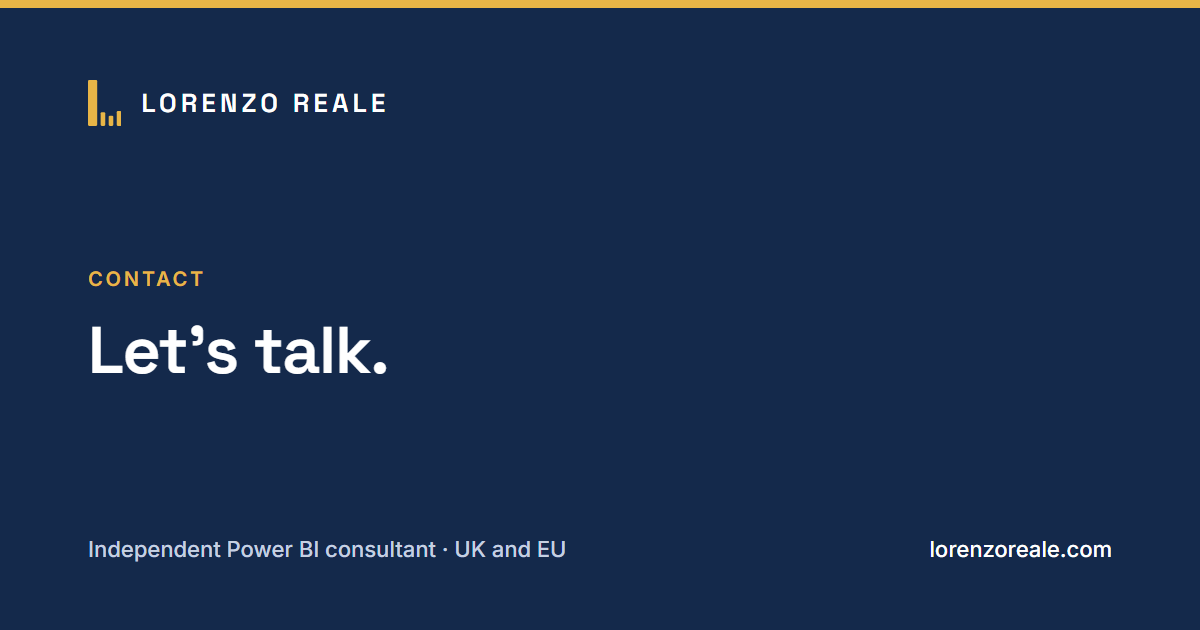
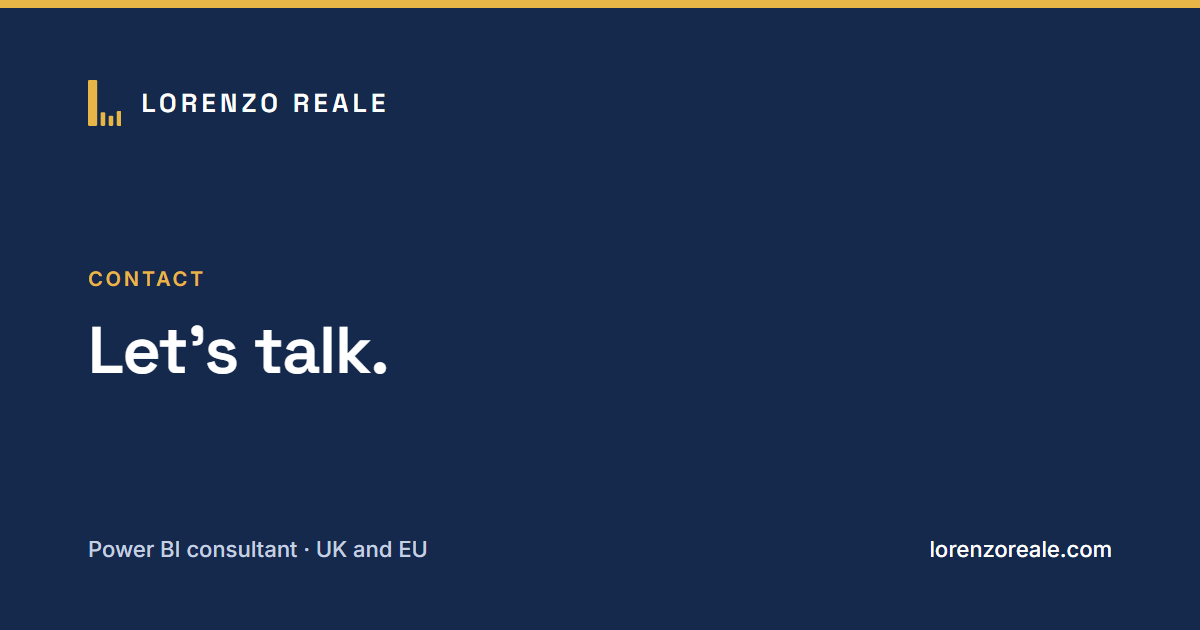
Demote independent from the letterhead and metadata
The word appeared on all nine pages plus the meta description, the JSON-LD jobTitle and the photo caption. Repeated that often it read as a tic rather than as information, so it now survives only where it does real work: the About paragraph, the homepage JSON-LD description and llms.txt.

The social cards carry the same role line in their footer, so they are rebuilt and their ?v= queries bumped: home to 4, the other four to 3.

Changed region(s): [[0.0617, 0.8444, 0.4625, 0.9048]]

diff --git a/index.html b/index.html
@@ -5,7 +5,7 @@
   <meta name="viewport" content="width=device-width, initial-scale=1.0" />
 
   <title>Lorenzo Reale - Power BI Developer and Consultant | UK and EU</title>
-  <meta name="description" content="Independent Power BI developer and consultant for operational and enterprise data. Dashboards, semantic models, DAX and SQL, across the UK and EU." />
+  <meta name="description" content="Power BI developer and consultant for operational and enterprise data. Dashboards, semantic models, DAX and SQL, across the UK and EU." />
   <link rel="canonical" href="https://lorenzoreale.com/" />
   <meta name="theme-color" content="#14294B" />
 
@@ -16,14 +16,14 @@
   <meta property="og:url" content="https://lorenzoreale.com/" />
   <meta property="og:title" content="Lorenzo Reale - Power BI Developer and Consultant | UK and EU" />
   <meta property="og:description" content="Power BI consultant for operational and enterprise data that has to be right. Dashboards, semantic models, DAX and the SQL layer beneath them, across the UK and EU." />
-  <meta property="og:image" content="https://lorenzoreale.com/og/home.png?v=3" />
+  <meta property="og:image" content="https://lorenzoreale.com/og/home.png?v=4" />
   <meta property="og:image:width" content="1200" />
   <meta property="og:image:height" content="630" />
   <meta property="og:image:alt" content="Lorenzo Reale - portrait beside the headline: Power BI consultant for operational and enterprise data that has to be right" />
 
   <!-- Twitter -->
   <meta name="twitter:card" content="summary_large_image" />
-  <meta name="twitter:image" content="https://lorenzoreale.com/og/home.png?v=3" />
+  <meta name="twitter:image" content="https://lorenzoreale.com/og/home.png?v=4" />
   <meta name="twitter:title" content="Lorenzo Reale - Power BI Developer and Consultant | UK and EU" />
   <meta name="twitter:description" content="Power BI consultant for operational and enterprise data that has to be right. Dashboards, semantic models, DAX and the SQL layer beneath them, across the UK and EU." />
 
@@ -65,7 +65,7 @@
           "url": "https://lorenzoreale.com/media/profile.png",
           "width": 1000,
           "height": 999,
-          "caption": "Lorenzo Reale, independent Power BI consultant"
+          "caption": "Lorenzo Reale, Power BI consultant"
         }
       },
       {
@@ -75,7 +75,7 @@
         "url": "https://lorenzoreale.com/",
         "image": "https://lorenzoreale.com/media/profile.png",
         "email": "lorenzo@lorenzoreale.com",
-        "jobTitle": "Independent Power BI Consultant",
+        "jobTitle": "Power BI Consultant",
         "description": "Independent Power BI developer and consultant for operational and enterprise data: dashboards and reports, semantic models, DAX and the SQL layer beneath them. Works with clients across the UK and EU, mostly remotely, with occasional on-site visits.",
         "nationality": [
           { "@type": "Country", "name": "United Kingdom" },
@@ -177,7 +177,7 @@
           <span class="lh-mono" aria-hidden="true"><svg viewBox="0 0 64 64" focusable="false"><rect x="17.5" y="12" width="8" height="40" rx="1"/><rect x="28.5" y="40" width="4" height="12" rx="1"/><rect x="35.5" y="43" width="4" height="9" rx="1"/><rect x="42.5" y="39" width="4" height="13" rx="1"/></svg></span>
           <span class="lh-name">Lorenzo Reale</span>
         </a>
-        <p class="lh-role">Independent Power BI consultant · UK&nbsp;and&nbsp;EU</p>
+        <p class="lh-role">Power BI consultant · UK&nbsp;and&nbsp;EU</p>
       </div>
     </header>
 

diff --git a/case-studies/regulated-utilities-reporting/index.html b/case-studies/regulated-utilities-reporting/index.html
@@ -18,14 +18,14 @@
   <meta property="og:url" content="https://lorenzoreale.com/case-studies/regulated-utilities-reporting/" />
   <meta property="og:title" content="Regulated utilities operational reporting - Case study" />
   <meta property="og:description" content="An anonymised case study: rebuilding an operational reporting cycle in a regulated utilities environment." />
-  <meta property="og:image" content="https://lorenzoreale.com/og/regulated-utilities-reporting.png?v=2" />
+  <meta property="og:image" content="https://lorenzoreale.com/og/regulated-utilities-reporting.png?v=3" />
   <meta property="og:image:width" content="1200" />
   <meta property="og:image:height" content="630" />
   <meta property="og:image:alt" content="Case study - rebuilding an operational reporting cycle" />
 
   <!-- Twitter -->
   <meta name="twitter:card" content="summary_large_image" />
-  <meta name="twitter:image" content="https://lorenzoreale.com/og/regulated-utilities-reporting.png?v=2" />
+  <meta name="twitter:image" content="https://lorenzoreale.com/og/regulated-utilities-reporting.png?v=3" />
   <meta name="twitter:title" content="Regulated utilities operational reporting - Case study" />
   <meta name="twitter:description" content="An anonymised case study: rebuilding an operational reporting cycle in a regulated utilities environment." />
 
@@ -51,7 +51,7 @@
           <span class="lh-mono" aria-hidden="true"><svg viewBox="0 0 64 64" focusable="false"><rect x="17.5" y="12" width="8" height="40" rx="1"/><rect x="28.5" y="40" width="4" height="12" rx="1"/><rect x="35.5" y="43" width="4" height="9" rx="1"/><rect x="42.5" y="39" width="4" height="13" rx="1"/></svg></span>
           <span class="lh-name">Lorenzo Reale</span>
         </a>
-        <p class="lh-role">Independent Power BI consultant · UK&nbsp;and&nbsp;EU</p>
+        <p class="lh-role">Power BI consultant · UK&nbsp;and&nbsp;EU</p>
       </div>
     </header>
 

diff --git a/services/index.html b/services/index.html
@@ -16,14 +16,14 @@
   <meta property="og:url" content="https://lorenzoreale.com/services/" />
   <meta property="og:title" content="Services - Lorenzo Reale, Power BI developer and consultant" />
   <meta property="og:description" content="Power BI end to end, the SQL data layer beneath it and the automation around it, for operational and enterprise reporting across the UK and EU." />
-  <meta property="og:image" content="https://lorenzoreale.com/og/services.png?v=2" />
+  <meta property="og:image" content="https://lorenzoreale.com/og/services.png?v=3" />
   <meta property="og:image:width" content="1200" />
   <meta property="og:image:height" content="630" />
   <meta property="og:image:alt" content="Services - Power BI end to end, the SQL data layer, Power Platform automation" />
 
   <!-- Twitter -->
   <meta name="twitter:card" content="summary_large_image" />
-  <meta name="twitter:image" content="https://lorenzoreale.com/og/services.png?v=2" />
+  <meta name="twitter:image" content="https://lorenzoreale.com/og/services.png?v=3" />
   <meta name="twitter:title" content="Services - Lorenzo Reale, Power BI developer and consultant" />
   <meta name="twitter:description" content="Power BI end to end, the SQL data layer beneath it and the automation around it, for operational and enterprise reporting across the UK and EU." />
 
@@ -49,7 +49,7 @@
           <span class="lh-mono" aria-hidden="true"><svg viewBox="0 0 64 64" focusable="false"><rect x="17.5" y="12" width="8" height="40" rx="1"/><rect x="28.5" y="40" width="4" height="12" rx="1"/><rect x="35.5" y="43" width="4" height="9" rx="1"/><rect x="42.5" y="39" width="4" height="13" rx="1"/></svg></span>
           <span class="lh-name">Lorenzo Reale</span>
         </a>
-        <p class="lh-role">Independent Power BI consultant · UK&nbsp;and&nbsp;EU</p>
+        <p class="lh-role">Power BI consultant · UK&nbsp;and&nbsp;EU</p>
       </div>
     </header>
 

diff --git a/case-studies/index.html b/case-studies/index.html
@@ -16,14 +16,14 @@
   <meta property="og:url" content="https://lorenzoreale.com/case-studies/" />
   <meta property="og:title" content="Case studies - Lorenzo Reale, Power BI developer and consultant" />
   <meta property="og:description" content="Demonstration Power BI projects built end to end on synthetic data: operational, finance and data-quality reporting." />
-  <meta property="og:image" content="https://lorenzoreale.com/og/case-studies.png?v=2" />
+  <meta property="og:image" content="https://lorenzoreale.com/og/case-studies.png?v=3" />
   <meta property="og:image:width" content="1200" />
   <meta property="og:image:height" content="630" />
   <meta property="og:image:alt" content="Case studies - demonstration Power BI reports built end to end" />
 
   <!-- Twitter -->
   <meta name="twitter:card" content="summary_large_image" />
-  <meta name="twitter:image" content="https://lorenzoreale.com/og/case-studies.png?v=2" />
+  <meta name="twitter:image" content="https://lorenzoreale.com/og/case-studies.png?v=3" />
   <meta name="twitter:title" content="Case studies - Lorenzo Reale, Power BI developer and consultant" />
   <meta name="twitter:description" content="Demonstration Power BI projects built end to end on synthetic data: operational, finance and data-quality reporting." />
 
@@ -49,7 +49,7 @@
           <span class="lh-mono" aria-hidden="true"><svg viewBox="0 0 64 64" focusable="false"><rect x="17.5" y="12" width="8" height="40" rx="1"/><rect x="28.5" y="40" width="4" height="12" rx="1"/><rect x="35.5" y="43" width="4" height="9" rx="1"/><rect x="42.5" y="39" width="4" height="13" rx="1"/></svg></span>
           <span class="lh-name">Lorenzo Reale</span>
         </a>
-        <p class="lh-role">Independent Power BI consultant · UK&nbsp;and&nbsp;EU</p>
+        <p class="lh-role">Power BI consultant · UK&nbsp;and&nbsp;EU</p>
       </div>
     </header>
 

diff --git a/contact/index.html b/contact/index.html
@@ -16,14 +16,14 @@
   <meta property="og:url" content="https://lorenzoreale.com/contact/" />
   <meta property="og:title" content="Contact - Lorenzo Reale, Power BI developer and consultant" />
   <meta property="og:description" content="Get in touch about Power BI work on operational and enterprise data, by form or email. UK and EU." />
-  <meta property="og:image" content="https://lorenzoreale.com/og/contact.png?v=2" />
+  <meta property="og:image" content="https://lorenzoreale.com/og/contact.png?v=3" />
   <meta property="og:image:width" content="1200" />
   <meta property="og:image:height" content="630" />
   <meta property="og:image:alt" content="Contact Lorenzo Reale - Power BI consultant" />
 
   <!-- Twitter -->
   <meta name="twitter:card" content="summary_large_image" />
-  <meta name="twitter:image" content="https://lorenzoreale.com/og/contact.png?v=2" />
+  <meta name="twitter:image" content="https://lorenzoreale.com/og/contact.png?v=3" />
   <meta name="twitter:title" content="Contact - Lorenzo Reale, Power BI developer and consultant" />
   <meta name="twitter:description" content="Get in touch about Power BI work on operational and enterprise data, by form or email. UK and EU." />
 
@@ -49,7 +49,7 @@
           <span class="lh-mono" aria-hidden="true"><svg viewBox="0 0 64 64" focusable="false"><rect x="17.5" y="12" width="8" height="40" rx="1"/><rect x="28.5" y="40" width="4" height="12" rx="1"/><rect x="35.5" y="43" width="4" height="9" rx="1"/><rect x="42.5" y="39" width="4" height="13" rx="1"/></svg></span>
           <span class="lh-name">Lorenzo Reale</span>
         </a>
-        <p class="lh-role">Independent Power BI consultant · UK&nbsp;and&nbsp;EU</p>
+        <p class="lh-role">Power BI consultant · UK&nbsp;and&nbsp;EU</p>
       </div>
     </header>
 

diff --git a/404.html b/404.html
@@ -15,14 +15,14 @@
   <meta property="og:locale" content="en_GB" />
   <meta property="og:title" content="Page not found - Lorenzo Reale" />
   <meta property="og:description" content="That page doesn't exist. Head back to the homepage." />
-  <meta property="og:image" content="https://lorenzoreale.com/og/home.png?v=3" />
+  <meta property="og:image" content="https://lorenzoreale.com/og/home.png?v=4" />
   <meta property="og:image:width" content="1200" />
   <meta property="og:image:height" content="630" />
   <meta property="og:image:alt" content="Lorenzo Reale - portrait beside the headline: Power BI consultant for operational and enterprise data that has to be right" />
 
   <!-- Twitter -->
   <meta name="twitter:card" content="summary_large_image" />
-  <meta name="twitter:image" content="https://lorenzoreale.com/og/home.png?v=3" />
+  <meta name="twitter:image" content="https://lorenzoreale.com/og/home.png?v=4" />
   <meta name="twitter:title" content="Page not found - Lorenzo Reale" />
   <meta name="twitter:description" content="That page doesn't exist. Head back to the homepage." />
 
@@ -48,7 +48,7 @@
           <span class="lh-mono" aria-hidden="true"><svg viewBox="0 0 64 64" focusable="false"><rect x="17.5" y="12" width="8" height="40" rx="1"/><rect x="28.5" y="40" width="4" height="12" rx="1"/><rect x="35.5" y="43" width="4" height="9" rx="1"/><rect x="42.5" y="39" width="4" height="13" rx="1"/></svg></span>
           <span class="lh-name">Lorenzo Reale</span>
         </a>
-        <p class="lh-role">Independent Power BI consultant · UK&nbsp;and&nbsp;EU</p>
+        <p class="lh-role">Power BI consultant · UK&nbsp;and&nbsp;EU</p>
       </div>
     </header>
 

diff --git a/case-studies/data-reconciliation-monitor/index.html b/case-studies/data-reconciliation-monitor/index.html
@@ -70,7 +70,7 @@
           <span class="lh-mono" aria-hidden="true"><svg viewBox="0 0 64 64" focusable="false"><rect x="17.5" y="12" width="8" height="40" rx="1"/><rect x="28.5" y="40" width="4" height="12" rx="1"/><rect x="35.5" y="43" width="4" height="9" rx="1"/><rect x="42.5" y="39" width="4" height="13" rx="1"/></svg></span>
           <span class="lh-name">Lorenzo Reale</span>
         </a>
-        <p class="lh-role">Independent Power BI consultant · UK&nbsp;and&nbsp;EU</p>
+        <p class="lh-role">Power BI consultant · UK&nbsp;and&nbsp;EU</p>
       </div>
     </header>
 

diff --git a/case-studies/month-end-management-pack/index.html b/case-studies/month-end-management-pack/index.html
@@ -70,7 +70,7 @@
           <span class="lh-mono" aria-hidden="true"><svg viewBox="0 0 64 64" focusable="false"><rect x="17.5" y="12" width="8" height="40" rx="1"/><rect x="28.5" y="40" width="4" height="12" rx="1"/><rect x="35.5" y="43" width="4" height="9" rx="1"/><rect x="42.5" y="39" width="4" height="13" rx="1"/></svg></span>
           <span class="lh-name">Lorenzo Reale</span>
         </a>
-        <p class="lh-role">Independent Power BI consultant · UK&nbsp;and&nbsp;EU</p>
+        <p class="lh-role">Power BI consultant · UK&nbsp;and&nbsp;EU</p>
       </div>
     </header>
 

diff --git a/case-studies/site-inspection-performance/index.html b/case-studies/site-inspection-performance/index.html
@@ -70,7 +70,7 @@
           <span class="lh-mono" aria-hidden="true"><svg viewBox="0 0 64 64" focusable="false"><rect x="17.5" y="12" width="8" height="40" rx="1"/><rect x="28.5" y="40" width="4" height="12" rx="1"/><rect x="35.5" y="43" width="4" height="9" rx="1"/><rect x="42.5" y="39" width="4" height="13" rx="1"/></svg></span>
           <span class="lh-name">Lorenzo Reale</span>
         </a>
-        <p class="lh-role">Independent Power BI consultant · UK&nbsp;and&nbsp;EU</p>
+        <p class="lh-role">Power BI consultant · UK&nbsp;and&nbsp;EU</p>
       </div>
     </header>
 
